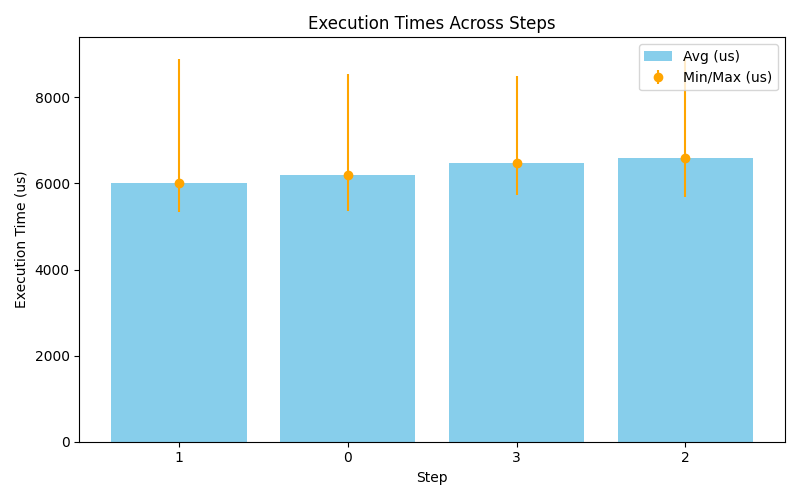
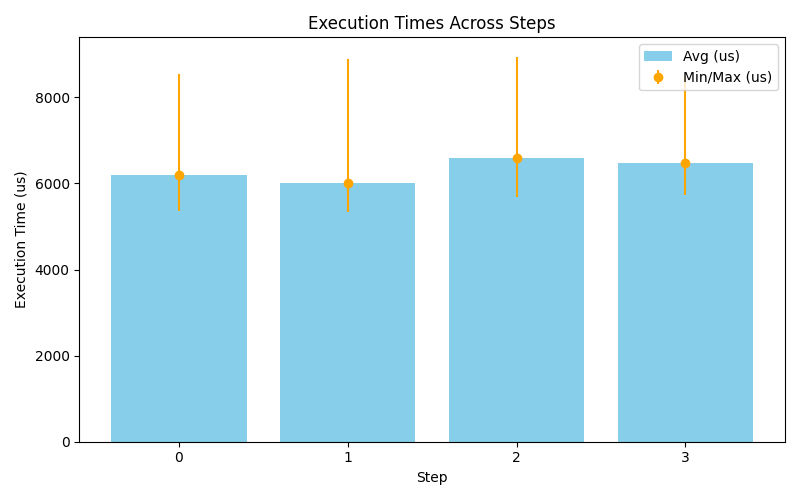
Updated ordering plot

diff --git a/programming_examples/ml/transformer/scripts/run_analysis.py b/programming_examples/ml/transformer/scripts/run_analysis.py
@@ -806,8 +806,8 @@ def analyse_fine_grained_times(csv_file, output_dir):
             max_times.append(float(row['max_us']))
 
     # Sort the data by avg_times (lowest to highest)
-    sorted_data = sorted(zip(avg_times, min_times, max_times, step))
-    avg_times, min_times, max_times, step = map(list, zip(*sorted_data))
+    sorted_data = sorted(zip(step, avg_times, min_times, max_times))
+    step, avg_times, min_times, max_times = map(list, zip(*sorted_data))
     fig, ax = plt.subplots(figsize=(max(8, len(step) * 1.2), 5))
     x = range(len(step))
     ax.bar(x, avg_times, color='skyblue', label='Avg (us)')
